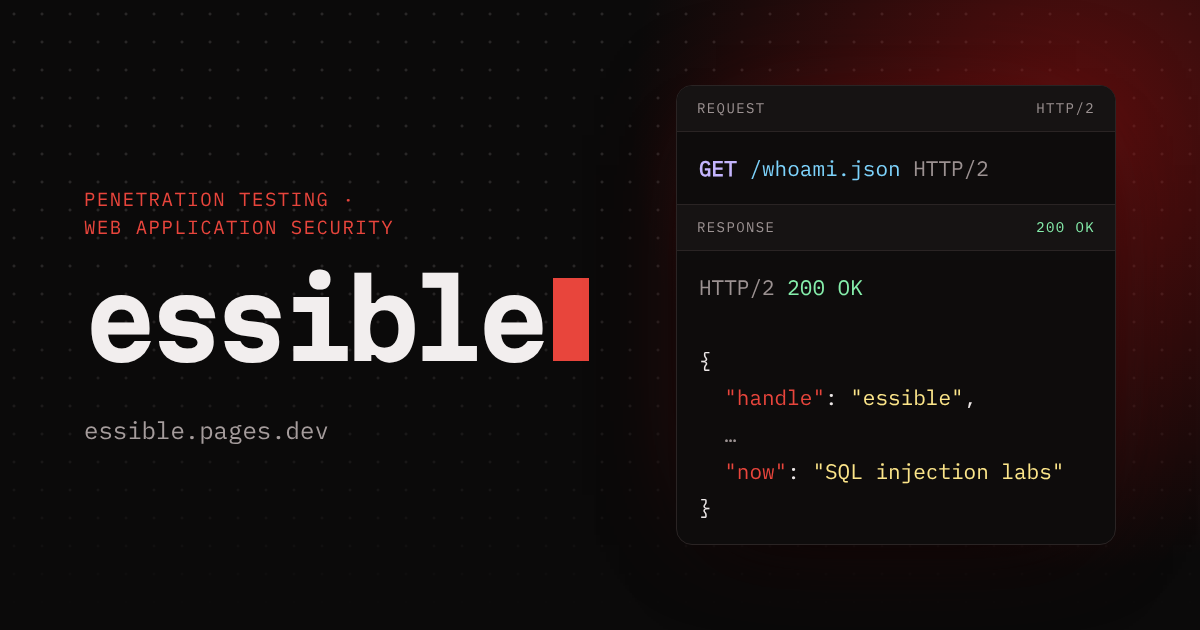
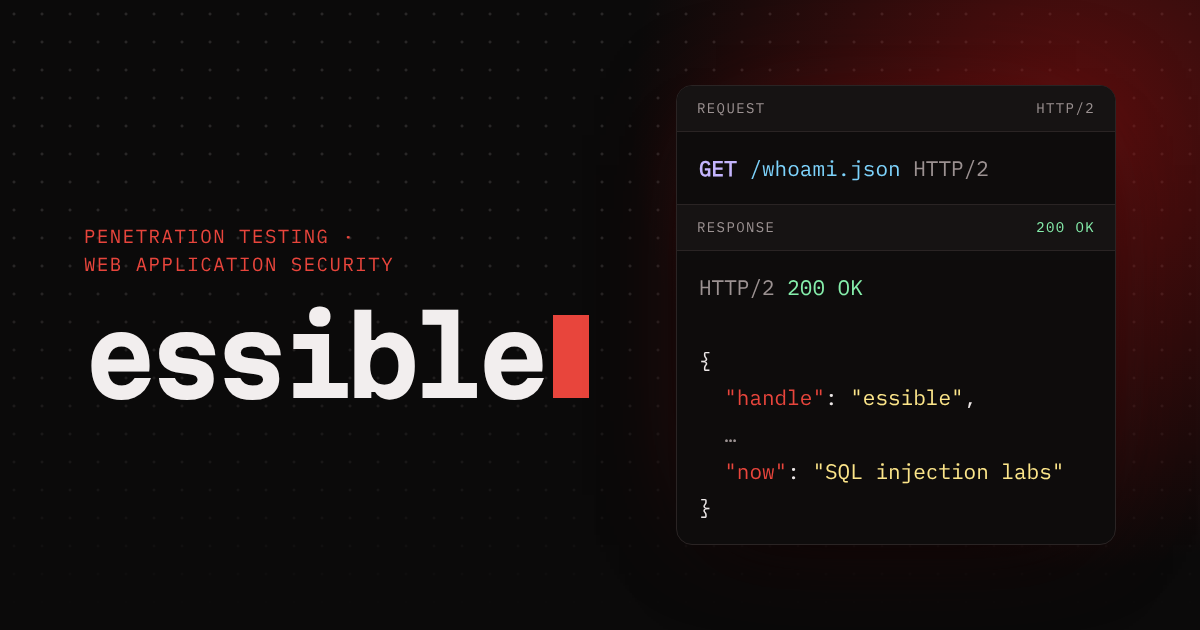
Deploy on Cloudflare Workers as static assets
- wrangler.jsonc uploads dist/ as static assets with no Worker script, so no
  server code runs, and the generated setup can't add an adapter.
- The site's address is set once (site in astro.config.mjs). robots.txt and
  security.txt are generated from it, and the request panel's Host line and
  the source comment use it too.
- The link-preview image no longer shows the address.

Changed region(s): [[0.0617, 0.3016, 0.4933, 0.6333], [0.0617, 0.6635, 0.2775, 0.7238]]

diff --git a/src/data/api.ts b/src/data/api.ts
@@ -1,7 +1,6 @@
-import { readFileSync } from 'node:fs';
-import { resolve } from 'node:path';
 import { byteLength, fieldLines, jsonLines, linesToText, type Endpoint } from '../lib/http';
 import { getWriteups } from '../lib/writeups';
+import { securityTxt } from './security';
 import { path, profile, type PathItem, type PathStatus } from './profile';
 
 /**
@@ -36,9 +35,6 @@ export async function writeups() {
   return { count: all.length, latest: all[0] && `/writeups/${all[0].id}/` };
 }
 
-/** Read at build time; the build runs from the project root. */
-const securityTxt = readFileSync(resolve('public/.well-known/security.txt'), 'utf8');
-
 function json(value: Parameters<typeof jsonLines>[0]) {
   const body = jsonLines(value);
   return { body, bytes: byteLength(linesToText(body)) };
@@ -47,8 +43,9 @@ function json(value: Parameters<typeof jsonLines>[0]) {
 const contentType = (value: string) => ({ name: 'content-type', value });
 
 /** Tabs for the panel on the home page. Header values are the ones in public/_headers. */
-export async function heroEndpoints(): Promise<Endpoint[]> {
+export async function heroEndpoints(site: URL): Promise<Endpoint[]> {
   const index = await writeups();
+  const security = securityTxt(site);
   const ok = { status: 200, statusText: 'OK' };
   const endpoints: Endpoint[] = [
     {
@@ -84,8 +81,8 @@ export async function heroEndpoints(): Promise<Endpoint[]> {
     path: '/.well-known/security.txt',
     ...ok,
     headers: [contentType('text/plain; charset=utf-8'), { name: 'x-frame-options', value: 'DENY' }],
-    body: fieldLines(securityTxt),
-    bytes: byteLength(securityTxt),
+    body: fieldLines(security),
+    bytes: byteLength(security),
   });
   return endpoints;
 }

diff --git a/src/data/security.ts b/src/data/security.ts
@@ -1,0 +1,14 @@
+import { profile } from './profile';
+
+/** RFC 9116 asks for an Expires date at most a year ahead. Move it forward before it passes. */
+export const securityExpires = '2027-10-31T23:59:59.000Z';
+
+/** The body of /.well-known/security.txt, also shown in the request panel. */
+export function securityTxt(site: URL): string {
+  return [
+    `Contact: mailto:${profile.email}`,
+    `Expires: ${securityExpires}`,
+    'Preferred-Languages: en',
+    `Canonical: ${new URL('/.well-known/security.txt', site).href}`,
+  ].join('\n') + '\n';
+}

diff --git a/src/pages/robots.txt.ts b/src/pages/robots.txt.ts
@@ -1,0 +1,14 @@
+import type { APIRoute } from 'astro';
+
+export const GET: APIRoute = ({ site }) =>
+  new Response(
+    `# robots.txt is a polite request to crawlers, not access control.
+# Nothing on this site is hidden, so there is nothing to disallow.
+
+User-agent: *
+Allow: /
+
+Sitemap: ${new URL('/sitemap.xml', site).href}
+`,
+    { headers: { 'Content-Type': 'text/plain; charset=utf-8' } },
+  );

diff --git a/src/pages/.well-known/security.txt.ts b/src/pages/.well-known/security.txt.ts
@@ -1,0 +1,5 @@
+import type { APIRoute } from 'astro';
+import { securityTxt } from '../../data/security';
+
+export const GET: APIRoute = ({ site }) =>
+  new Response(securityTxt(site!), { headers: { 'Content-Type': 'text/plain; charset=utf-8' } });

diff --git a/README.md b/README.md
@@ -1,6 +1,6 @@
 # whoami
 
-Source for [essible.pages.dev](https://essible.pages.dev): writeups and notes on penetration testing and web application security.
+Source for my portfolio: writeups and notes on penetration testing and web application security.
 
 Built with [Astro](https://astro.build). The output is static HTML and CSS, with no cookies or trackers. The only JavaScript is `public/copy.js`, which adds Copy buttons to code blocks on writeup pages.
 
@@ -56,12 +56,17 @@ The panel reads the same sources, so it always shows what the server sends.
 - Code blocks get a Copy button from `public/copy.js`, the one script on the site. It loads only on writeup pages, and without it the code can still be selected by hand.
 - The layout is tested from smartwatch width (about 160px) up to 4K screens.
 
-## Deploy on Cloudflare Pages
+## Deploy on Cloudflare
+
+The site runs on Cloudflare Workers as static assets (`wrangler.jsonc`): Cloudflare builds it and
+uploads `dist/`. There is no Worker script, so no server code runs.
 
 - Build command: `npm run build`
-- Output directory: `dist`
+- Deploy command: `npx wrangler deploy`
+- The Worker's name in the dashboard must match `name` in `wrangler.jsonc`.
 - The Node.js version is read from `.node-version`.
+- The site's address is set once, as `site` in `astro.config.mjs`.
 
 Security headers are set in `public/_headers`. Scripts may only come from this site (`script-src 'self'`), and Trusted Types (`require-trusted-types-for 'script'`) blocks HTML injection into the page from scripts. The footer links to this repository, so keep it public. Keep Cloudflare Web Analytics turned off, or allow its script in the Content-Security-Policy, otherwise the browser will block it.
 
-`public/.well-known/security.txt` expires on 2027-10-31. Update the `Expires` date before then.
+`/.well-known/security.txt` is generated from `src/data/security.ts`. Its `Expires` date is 2027-10-31; move it forward before then.
